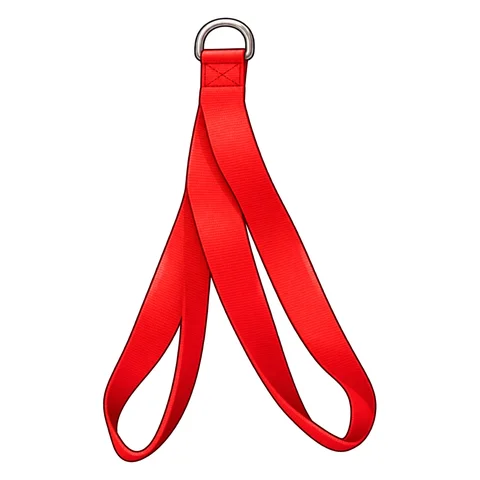
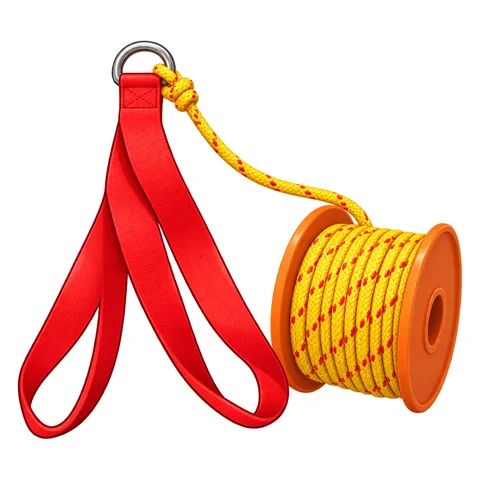
Rettungsgeräte: Rettungsleine (Gurt + Leine) ersetzt Rettungsschlinge
Claude-Session: https://claude.ai/code/session_013myMB22NNDDxY9vEHwKJk6

diff --git a/cards.js b/cards.js
@@ -47,7 +47,7 @@ window.CARD_SETS = [
       ['Rettungsball mit Wurfleine', 'Der Ball wird der Person mit der Leine zugeworfen.'],
       ['Fernglas', 'Damit behält man die Wasserfläche im Blick und erkennt Gefahren früh.'],
       ['Rettungsring', 'Wird der Person zugeworfen – sie hält sich daran fest.'],
-      ['Rettungsschlinge', 'Wird der Person umgelegt, um sie zu sichern und zu ziehen.'],
+      ['Rettungsleine', 'Rettungsgurt mit Leine: Der Retter trägt den Gurt und wird vom Ufer aus gesichert und zurückgezogen.'],
       ['Rettungsboje', 'Fester Auftriebskörper mit Griffen – der Retter schwimmt ihn zur Person.'],
       ['Gurtretter', 'Weicher Auftriebskörper, wird um die Person gelegt und verschlossen.'],
     ].map(([titel, text], i) => {

diff --git a/sw.js b/sw.js
@@ -1,6 +1,6 @@
 // Service Worker: alles vorab cachen, damit das Spiel offline läuft.
 // Bei jeder Änderung an Dateien VERSION hochzählen.
-const VERSION = 'dlrg-memory-v5';
+const VERSION = 'dlrg-memory-v6';
 const DATEIEN = [
   './',
   'app.js',
